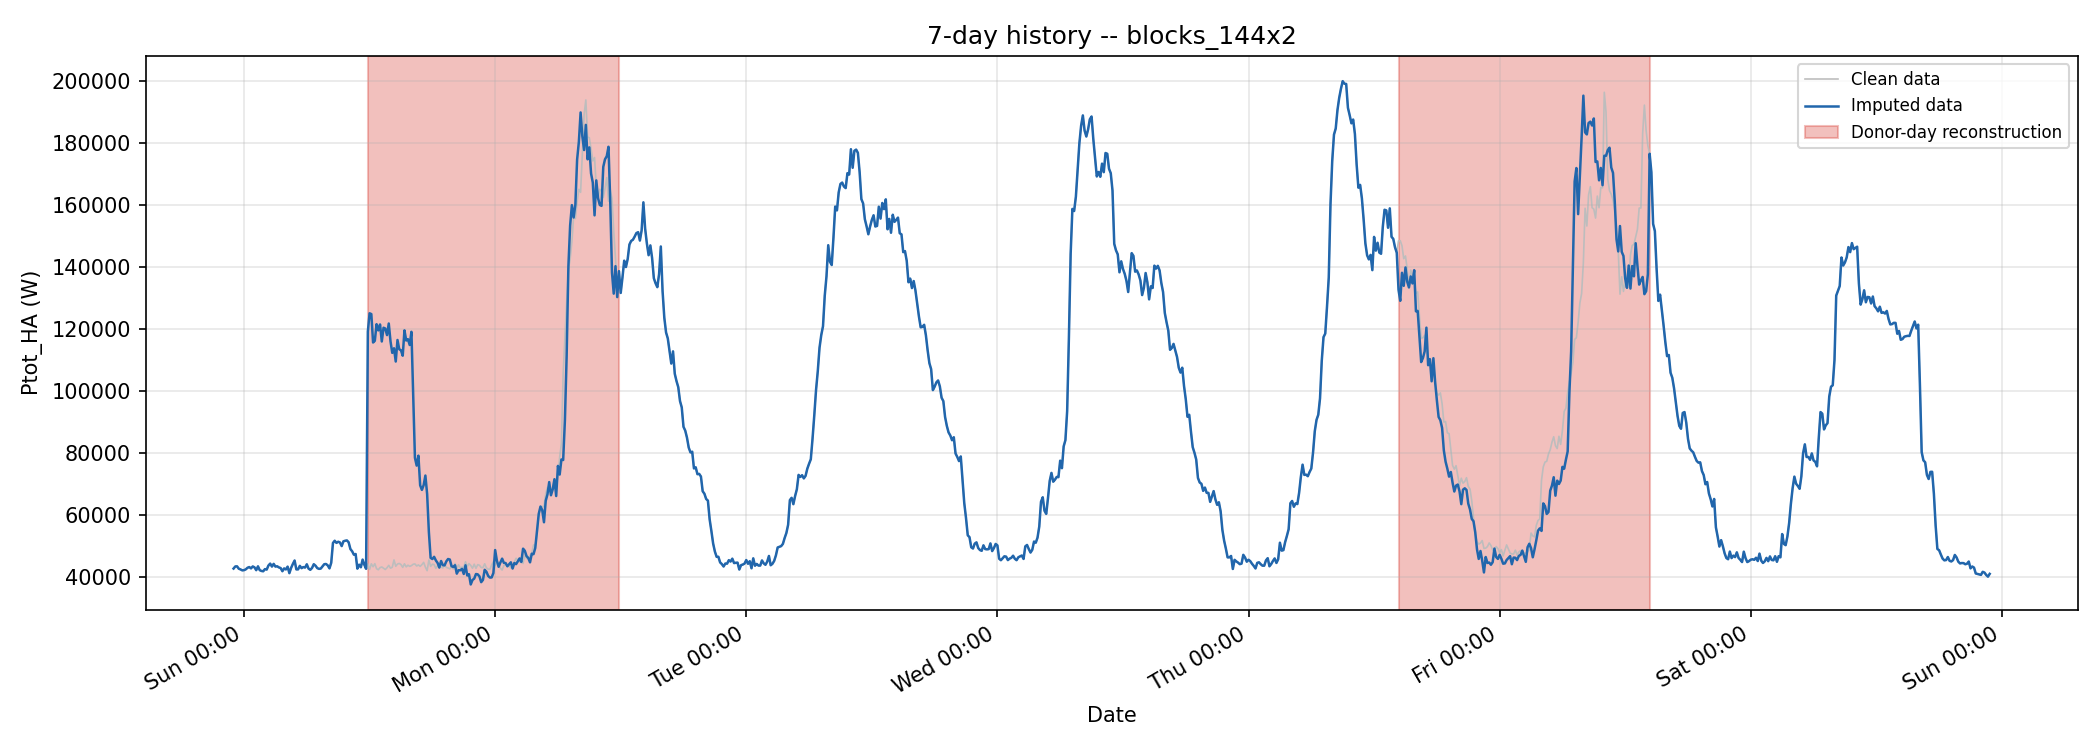
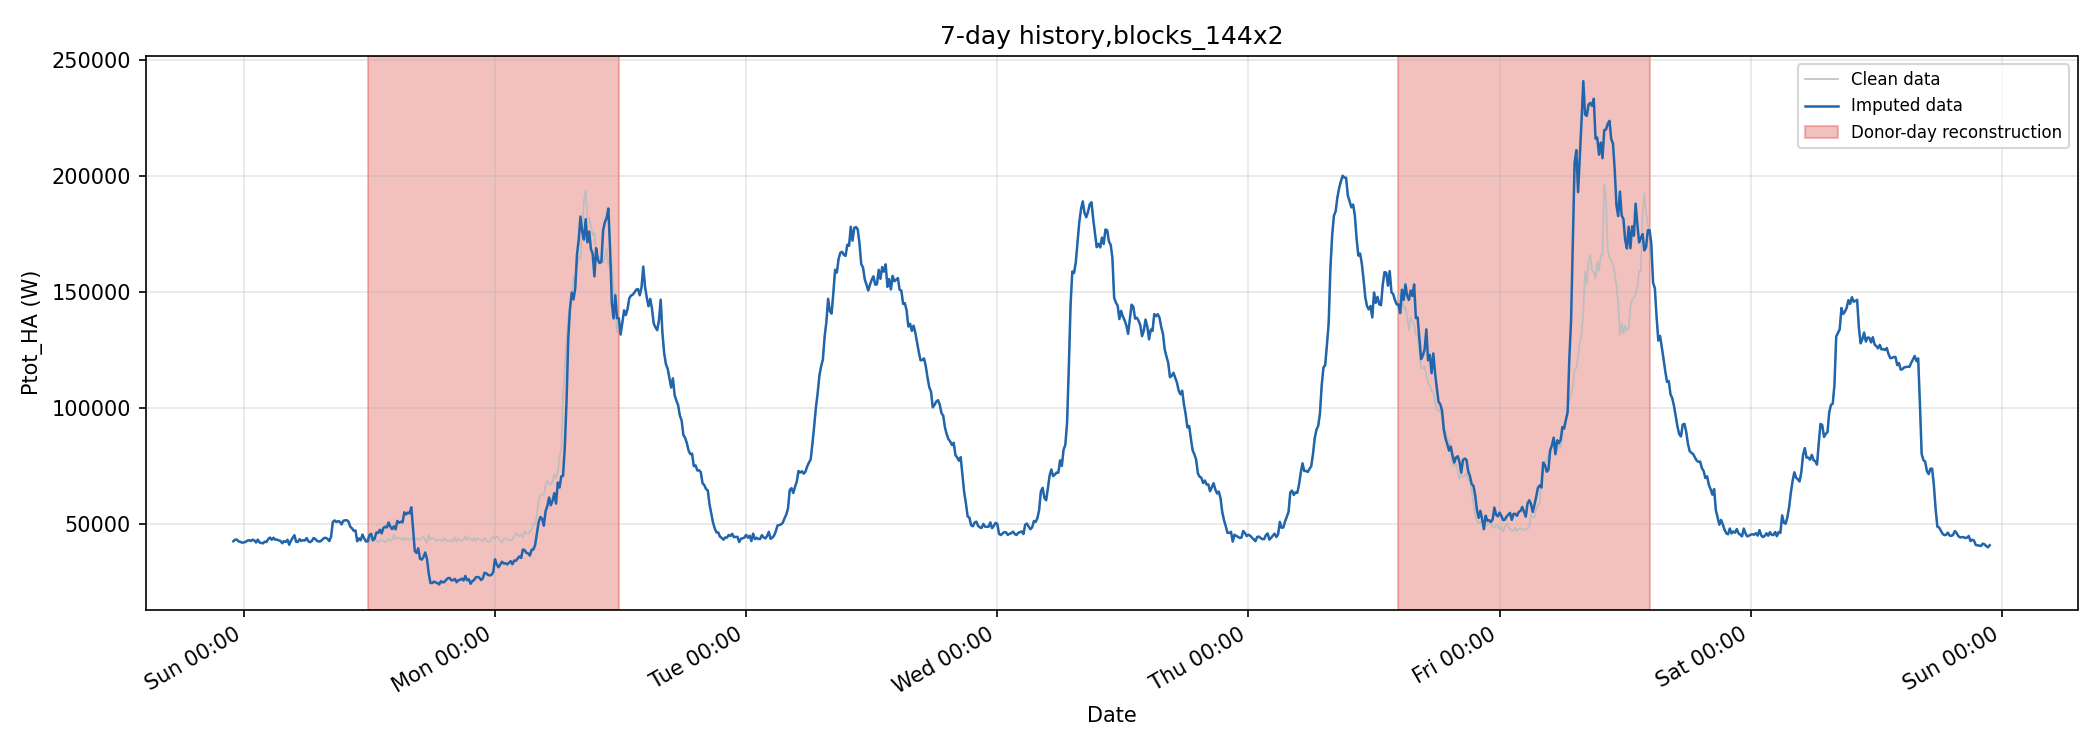
Updated imputation algorithm for better continuity

diff --git a/demo/imputer.py b/demo/imputer.py
@@ -32,6 +32,8 @@ SCALE_MIN = 0.5
 SCALE_MAX = 2.0
 REL_NOISE = 0.03
 MAX_CONTEXT_POINTS = 144
+EDGE_SCALE_MIN = 0.1
+EDGE_SCALE_MAX = 10.0
 
 
 # ====================
@@ -301,6 +303,51 @@ def _estimate_scale_for_gap(
     return max(scale_min, min(scale_max, scale))
 
 
+def _apply_edge_continuity(
+    gap_values: np.ndarray,
+    prev_value: Optional[float],
+    next_value: Optional[float],
+    *,
+    edge_scale_min: float = EDGE_SCALE_MIN,
+    edge_scale_max: float = EDGE_SCALE_MAX,
+) -> np.ndarray:
+    """
+    Multiplicatively rescale an already reconstructed gap so its two edges stay
+    continuous with the nearest observed points.
+
+    This fixes the main failure mode of the 7-day demo: a coarse contextual
+    fallback can pick a profile with the right broad category (for example
+    "weekend") but the wrong local level (for example Saturday-like instead of
+    Sunday-like). The gap shape is kept, but its scale is forced to agree with
+    the observations immediately before/after the block.
+    """
+    adjusted = np.asarray(gap_values, dtype=float).copy()
+    if adjusted.size == 0:
+        return adjusted
+
+    eps = 1e-9
+    start_scale = None
+    end_scale = None
+
+    if prev_value is not None and np.isfinite(prev_value) and abs(adjusted[0]) > eps:
+        start_scale = float(np.clip(prev_value / adjusted[0], edge_scale_min, edge_scale_max))
+
+    if next_value is not None and np.isfinite(next_value) and abs(adjusted[-1]) > eps:
+        end_scale = float(np.clip(next_value / adjusted[-1], edge_scale_min, edge_scale_max))
+
+    if start_scale is None and end_scale is None:
+        return adjusted
+    if start_scale is None:
+        start_scale = end_scale
+    if end_scale is None:
+        end_scale = start_scale
+
+    ramp = np.linspace(start_scale, end_scale, adjusted.size)
+    adjusted *= ramp
+    adjusted[adjusted < 0] = 0.0
+    return adjusted
+
+
 # ========================
 # Public demo entry point
 # ========================
@@ -471,6 +518,14 @@ def impute(
 
                     values[i] = max(v, 0.0)
 
+            prev_value = values[prev_idx] if prev_idx is not None else None
+            next_value = values[next_idx] if next_idx is not None else None
+            values[start : end + 1] = _apply_edge_continuity(
+                values[start : end + 1],
+                prev_value=prev_value,
+                next_value=next_value,
+            )
+
             quality_out.iloc[start : end + 1] = 3
             continue
 
@@ -489,6 +544,14 @@ def impute(
                 v *= noise
 
             values[i] = max(v, 0.0)
+
+        prev_value = values[prev_idx] if prev_idx is not None else None
+        next_value = values[next_idx] if next_idx is not None else None
+        values[start : end + 1] = _apply_edge_continuity(
+            values[start : end + 1],
+            prev_value=prev_value,
+            next_value=next_value,
+        )
 
         quality_out.iloc[start : end + 1] = 2
 

diff --git a/phase-1/Python-scripts/Algorithmic-simple-solution/contextual_impute.py b/phase-1/Python-scripts/Algorithmic-simple-solution/contextual_impute.py
@@ -11,6 +11,9 @@ import pandas as pd
 
 logger = logging.getLogger(__name__)
 
+EDGE_SCALE_MIN = 0.1
+EDGE_SCALE_MAX = 10.0
+
 
 # ====================
 # Logging setup
@@ -433,6 +436,49 @@ def estimate_scale_for_gap(
     return scale
 
 
+def apply_edge_continuity(
+    gap_values: np.ndarray,
+    prev_value: Optional[float],
+    next_value: Optional[float],
+    *,
+    edge_scale_min: float = EDGE_SCALE_MIN,
+    edge_scale_max: float = EDGE_SCALE_MAX,
+) -> np.ndarray:
+    """
+    Multiplicatively rescale a reconstructed gap so its two edges remain
+    continuous with the nearest observed samples.
+
+    This is mainly a guardrail for short-history reconstructions where a coarse
+    fallback profile can have the right class but the wrong level (for example a
+    Saturday-like weekend profile used inside a Sunday block).
+    """
+    adjusted = np.asarray(gap_values, dtype=float).copy()
+    if adjusted.size == 0:
+        return adjusted
+
+    eps = 1e-9
+    start_scale = None
+    end_scale = None
+
+    if prev_value is not None and np.isfinite(prev_value) and abs(adjusted[0]) > eps:
+        start_scale = float(np.clip(prev_value / adjusted[0], edge_scale_min, edge_scale_max))
+
+    if next_value is not None and np.isfinite(next_value) and abs(adjusted[-1]) > eps:
+        end_scale = float(np.clip(next_value / adjusted[-1], edge_scale_min, edge_scale_max))
+
+    if start_scale is None and end_scale is None:
+        return adjusted
+    if start_scale is None:
+        start_scale = end_scale
+    if end_scale is None:
+        end_scale = start_scale
+
+    ramp = np.linspace(start_scale, end_scale, adjusted.size)
+    adjusted *= ramp
+    adjusted[adjusted < 0] = 0.0
+    return adjusted
+
+
 # ================================
 # 6. Imputation for a single series
 # ================================
@@ -674,6 +720,14 @@ def impute_series_with_profiles(
 
                     values[i] = max(v, 0.0)
 
+            prev_value = values[prev_idx] if prev_idx is not None else None
+            next_value = values[next_idx] if next_idx is not None else None
+            values[start: end + 1] = apply_edge_continuity(
+                values[start: end + 1],
+                prev_value=prev_value,
+                next_value=next_value,
+            )
+
             continue  # skip medium-gap branch for this gap
 
 
@@ -698,6 +752,14 @@ def impute_series_with_profiles(
                 v *= noise
 
             values[i] = max(v, 0.0)
+
+        prev_value = values[prev_idx] if prev_idx is not None else None
+        next_value = values[next_idx] if next_idx is not None else None
+        values[start: end + 1] = apply_edge_continuity(
+            values[start: end + 1],
+            prev_value=prev_value,
+            next_value=next_value,
+        )
 
     logger.info("Column %s: imputation completed.", col)
     return pd.Series(values, index=series.index, name=series.name)

diff --git a/demo/plotting.py b/demo/plotting.py
@@ -61,7 +61,7 @@ def plot_predictions(result, output_dir):
 
     ax.set_xlabel("Time")
     ax.set_ylabel("Power (W)")
-    ax.set_title(f"Predictions for {result.target_date} -- {result.scenario_label}")
+    ax.set_title(f"Predictions for {result.target_date},{result.scenario_label}")
     ax.legend(loc="upper right")
     ax.xaxis.set_major_formatter(mdates.DateFormatter("%H:%M"))
     ax.grid(True, alpha=0.3)
@@ -138,7 +138,7 @@ def plot_history_gaps(result, output_dir):
 
     ax.set_xlabel("Date")
     ax.set_ylabel(f"{BUILDING_COLUMN} (W)")
-    ax.set_title(f"7-day history -- {result.scenario_label}")
+    ax.set_title(f"7-day history,{result.scenario_label}")
     ax.xaxis.set_major_formatter(mdates.DateFormatter("%a %H:%M"))
     ax.grid(True, alpha=0.3)
     fig.autofmt_xdate()
@@ -197,7 +197,7 @@ def plot_metrics_bars(result, output_dir):
     ax2.set_title("MAPE")
     ax2.grid(True, alpha=0.3, axis="y")
 
-    fig.suptitle(f"Metrics -- {result.scenario_label}", fontsize=12)
+    fig.suptitle(f"Metrics,{result.scenario_label}", fontsize=12)
     fig.tight_layout()
 
     path = os.path.join(output_dir, "metrics.png")

diff --git a/demo/predict.py b/demo/predict.py
@@ -91,7 +91,7 @@ def predict_day(target_timestamps, weather_temps, history_df):
 
     Returns
     -------
-    np.ndarray of shape (144,) -- predicted power in watts
+    np.ndarray of shape (144,),predicted power in watts
     """
     entr = _build_feature_matrix(target_timestamps, weather_temps, history_df)
 

diff --git a/README.md b/README.md
@@ -1,4 +1,4 @@
-# Project N28 -- Improving Predictive Model Resilience Through Data Quality and Continuity
+# Project N28,Improving Predictive Model Resilience Through Data Quality and Continuity
 
 JUNIA R&D project (LiveTree demonstrator). A neural network predicts daily energy consumption for instrumented buildings. This project adds a resilience layer ("Module de Pilotage") that fills data gaps so predictions keep running during multi-hour outages.
 
@@ -7,7 +7,7 @@ JUNIA R&D project (LiveTree demonstrator). A neural network predicts daily energ
 ```
 phase-1/                 Research phase: gap analysis, synthetic hole injection, literature review
 phase-2/
-  Data/                  CSV time series (consumption, weather, forecasts) -- not in git
+  Data/                  CSV time series (consumption, weather, forecasts),not in git
   Prediction Model/      Production prediction service (Docker + Keras + Kafka)
 demo/                    Single-building demo pipeline (current focus)
 .claude/                 Architecture docs, file index, conventions
@@ -33,7 +33,7 @@ Obtain these files from the project shared drive or from a team member.
 
 ## Demo Pipeline
 
-The demo validates the imputation + prediction pipeline on a single building (`Ptot_HA` -- Hotel Academique). It runs entirely on CSV files, no Kafka or Cassandra needed.
+The demo validates the imputation + prediction pipeline on a single building (`Ptot_HA`,Hotel Academique). It runs entirely on CSV files, no Kafka or Cassandra needed.
 
 **Pipeline flow:** Load CSV -> extract 7-day window -> inject synthetic gaps -> impute -> predict -> compare against no-gap baseline.
 
@@ -90,9 +90,9 @@ docker-compose run demo --target-date 2026-02-01 --save-plots --save-summary
 
 When `--save-plots` is used, each scenario produces three plots in `output/{date}_{label}/`:
 
-- **predictions.png** -- baseline vs imputed predictions (+ actual if available)
-- **history_gaps.png** -- 7-day history window with color-coded imputation regions
-- **metrics.png** -- bar chart of MAE, RMSE, MAPE
+- **predictions.png**,baseline vs imputed predictions (+ actual if available)
+- **history_gaps.png**,7-day history window with color-coded imputation regions
+- **metrics.png**,bar chart of MAE, RMSE, MAPE
 
 In multi-scenario mode, an additional **scenario_comparison.png** shows metric degradation across all gap configurations, and `--save-summary` writes a **summary.csv** for programmatic analysis.
 
@@ -119,9 +119,9 @@ A default `scenarios.json` is included with gap sizes from 1h to 48h.
 | MAPE | Mean Absolute Percentage Error (%) |
 
 Three comparisons are computed:
-- **baseline vs imputed** -- how much predictions degrade due to gap filling (primary metric)
-- **baseline vs actual** -- baseline model accuracy
-- **imputed vs actual** -- imputed model accuracy
+- **baseline vs imputed**,how much predictions degrade due to gap filling (primary metric)
+- **baseline vs actual**,baseline model accuracy
+- **imputed vs actual**,imputed model accuracy
 
 ## Imputation Strategy
 

diff --git a/Planning.md b/Planning.md
@@ -1,15 +1,15 @@
-## Week 2 (Mar 23-29) -- Core Development
+## Week 2 (Mar 23-29),Core Development
 
 ### Mike & Isaac (AI/Big Data)
 - **[A] Improve the imputation algorithm** :
   - Evaluate and improve the seasonal backup profile (better weighting, clustering similar days, etc.)
   - Explore ML-based gap filling for medium/long gaps
   - Benchmark different imputation strategies against the simple baseline
-- **[B] Adapt single-building prediction** -- verify the prediction algorithm works end-to-end with the Ptot_HA model and scalers
+- **[B] Adapt single-building prediction**,verify the prediction algorithm works end-to-end with the Ptot_HA model and scalers
 
 ### Arda & Romain (DevOps/SRE)
 - **Arda: Set up Jira** for the project (board, backlog, sprint structure)
-- **[C] Set up the demo pipeline** -- make a locally runnable demo
+- **[C] Set up the demo pipeline**,make a locally runnable demo
   - Ensure CSV loading works with actual data files
   - Validate gap injection produces realistic test scenarios
 - **[D] Build evaluation framework**
@@ -19,7 +19,7 @@
 
 ---
 
-## Week 3 (Mar 31 - Apr 5) -- Integration & Iteration
+## Week 3 (Mar 31 - Apr 5),Integration & Iteration
 
 ### Mike & Isaac
 - **[A] Iterate on the improved imputation** based on evaluation results
@@ -30,13 +30,13 @@
 - **Begin writing technical sections** of the deliverable (methodology, algorithm description, ML choices)
 
 ### Arda & Romain
-- **[C] Dockerize the demo pipeline** -- create `Dockerfile` + `docker-compose.yml`
-- **[D] Automate test scenarios** -- script that runs multiple gap configurations and produces a summary table
+- **[C] Dockerize the demo pipeline**,create `Dockerfile` + `docker-compose.yml`
+- **[D] Automate test scenarios**,script that runs multiple gap configurations and produces a summary table
 - **Prepare integration path**: document how the module would plug into the production ConsoFile.py + Kafka pipeline
 
 ---
 
-## Week 4 (Apr 7-12) -- Testing & Validation
+## Week 4 (Apr 7-12),Testing & Validation
 
 ### All together
 - **Run full validation suite**: multiple dates, multiple gap patterns, edge cases
@@ -47,7 +47,7 @@
 
 ---
 
-## Week 5 (Apr 14-19) -- Finalization
+## Week 5 (Apr 14-19),Finalization
 
 ### All together
 - **Finalize deliverable**: merge all sections, proofread, ensure reproducibility instructions are clear
@@ -59,7 +59,7 @@
 
 ---
 
-## Week 6 (Apr 21-24) -- Submission & Defense
+## Week 6 (Apr 21-24),Submission & Defense
 
 - Submit deliverable
 - Final defense (20 min presentation + 15 min questions)
